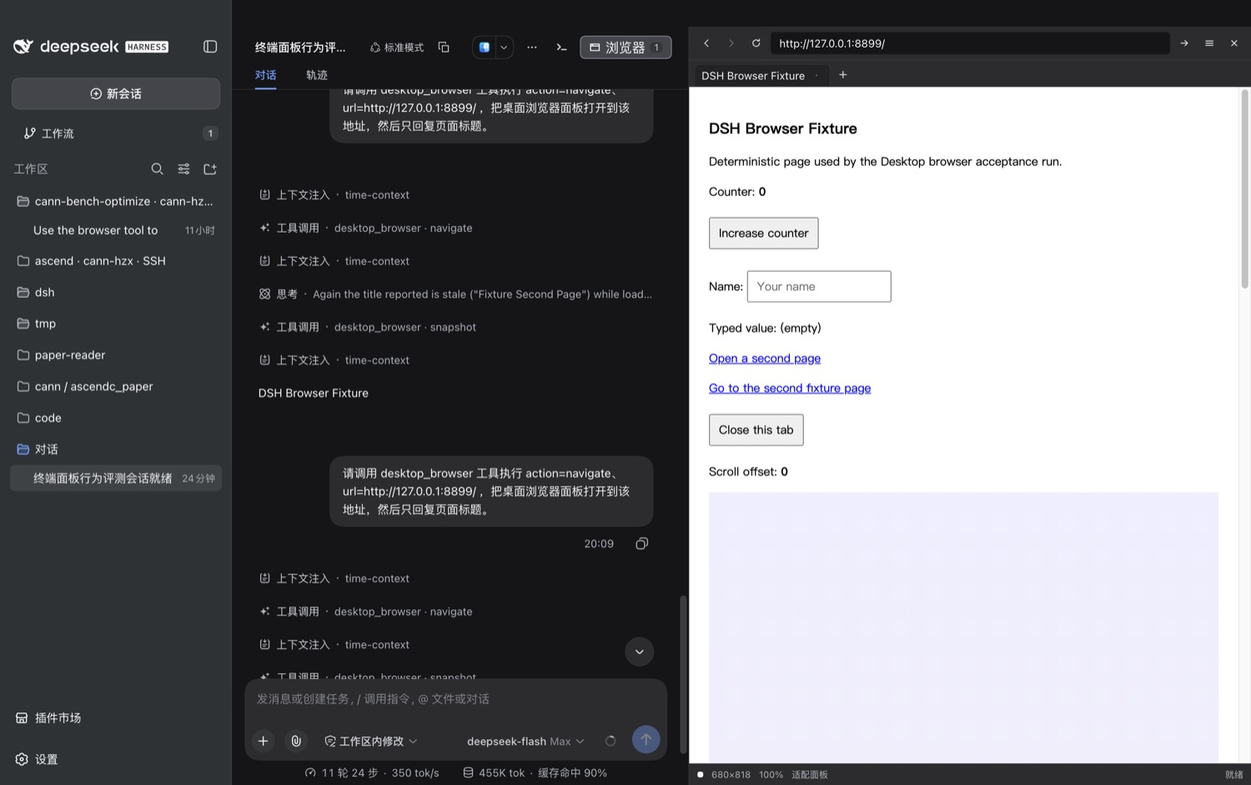
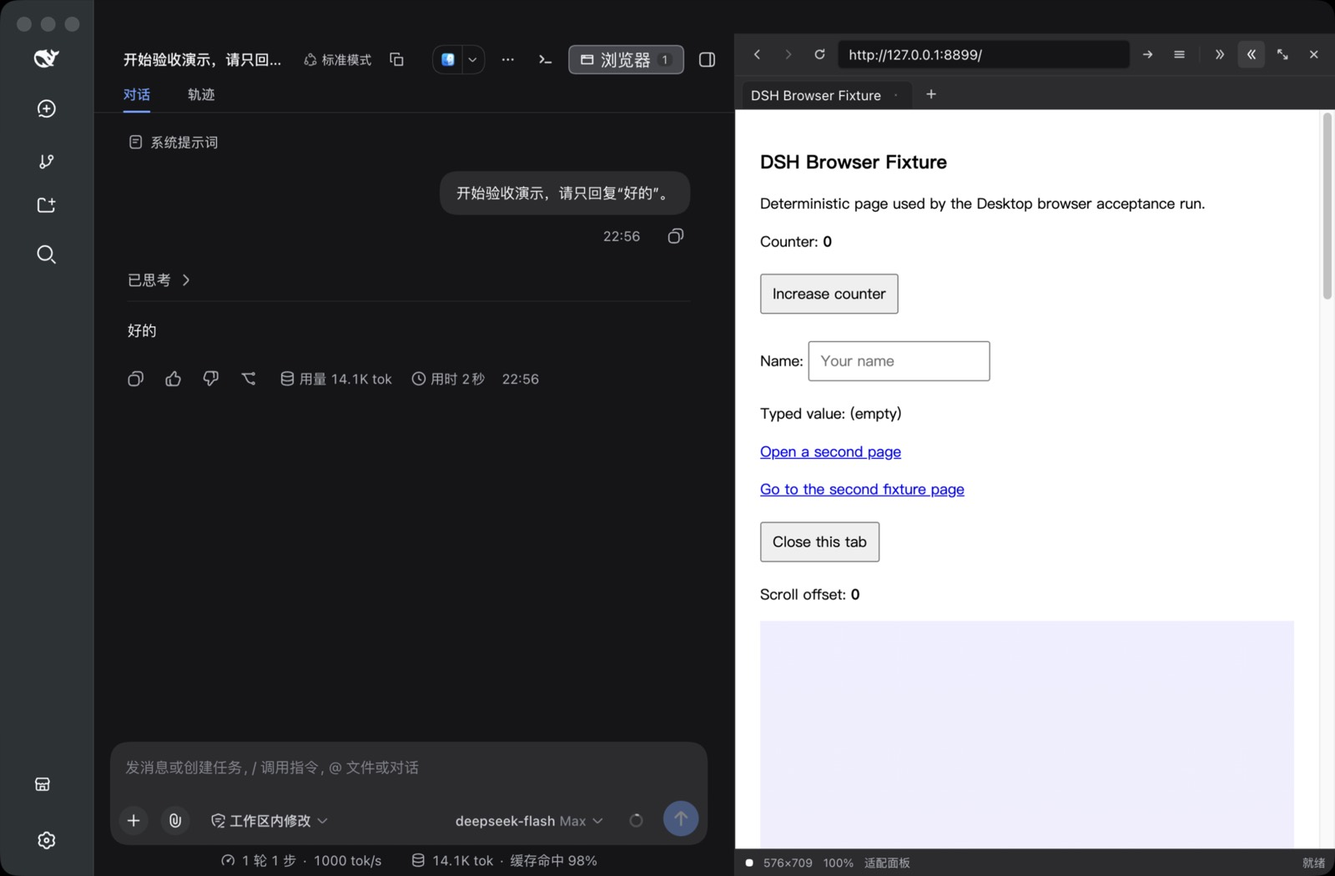
test(browser): extend the acceptance matrix and refresh its evidence
The matrix grows to 64 items and covers the column controls, the expanded
workspace, the Agent's automatic reveal, the tab strip at the minimum
width, and two Sessions claiming the column in turn. The figures are
captured from a fresh Session with the shipped sidebar collapsed, so the
report and the pull request carry no workspace, Session or account name.

The report records eight defects this acceptance run found and the branch
fixes, plus two side checks: page cookies and localStorage survive a
restart inside one Session, and disabling the desktop-browser row removes
the Host service, the private route and the Agent tool.

diff --git a/docs/evidence/desktop-browser-acceptance-2026-09-15.md b/docs/evidence/desktop-browser-acceptance-2026-09-15.md
@@ -2,26 +2,28 @@
 
 ## 结论
 
-- 结果：通过。55 个验收用例全部通过（55/55），其中 5 个专门校验既有功能未受影响；过程中发现的 4 处真实缺陷已修复并复测。
+- 结果：通过。64 个验收用例全部通过（64/64），其中 11 个专门校验既有功能未受影响、列宽/展开行为与多会话占用；过程中发现的 8 处真实缺陷已修复并复测。
 - 范围：`dsh-plugin-desktop` 的桌面浏览器右侧栏面板、Agent `desktop_browser` 工具、Host `desktopBrowser` service 与面板私有通道；未修改 `deepseek-harness` 子模块。
 - 验收对象：工作区内的开发构建（`dsh-plugin-desktop` 源码 + `node_modules/electron` 43），不是已发布的安装包。
-- 面板形态：浏览器以**右侧栏列**形式停靠，与会话并列，不占用独立窗口。
+- 面板形态：浏览器以**右侧栏列**形式停靠，与会话并列，不占用独立窗口；这一列可以按窗口宽度的八分之一变窄或变宽，也可以在保留左侧边栏的前提下展开到整个会话区。
+- Agent 联动：Agent 的每个页面 action 都会展开该会话的面板，用户始终能看到 Agent 正在操作的页面；`panel` action 仍可显式打开或隐藏。
+- 图像隐私：证据截图使用新建的空会话，并收起左侧边栏的会话列表，因此图中不含工作区名、会话名、账号或对话内容。
 
 ## 图像摘要
 
-以下截图是**窗口的真实合成像素**：由 Electron 自身的窗口捕获取得，包含会话、面板外观与原生浏览器页面视图。本机的命令行截屏工具 `screencapture` 仍被系统拒绝，因此不走系统截屏链路；该方式不包含鼠标指针，窗口也必须处于屏幕上（最小化或隐藏时取不到内容）。
+以下截图是**窗口的真实合成像素**：由 Electron 自身的窗口捕获取得，包含会话、面板外观与原生浏览器页面视图。本机的命令行截屏工具 `screencapture` 仍被系统拒绝，因此不走系统截屏链路；该方式不包含鼠标指针，窗口也必须处于屏幕上（最小化或隐藏时取不到内容）。截图前会新建一个空会话并收起左侧边栏，画面中因此不出现工作区名、会话名、账号或既有对话内容。
 
 ### 右侧栏中的浏览器（深色）
 
 ![浏览器会话右侧栏](./assets/desktop-browser-column.jpg)
 
-会话列让出右侧栏，面板顶部对齐标题栏下方；地址栏、标签条与状态行（逻辑视口 / 缩放 / 布局 / 交换状态）都在列内，页面由主进程的原生视图绘制。会话列里可见 Agent 的 `desktop_browser` 工具调用记录。
+会话列让出右侧栏，面板顶部对齐标题栏下方；地址栏、标签条与状态行（逻辑视口 / 缩放 / 布局 / 交换状态）都在列内，页面由主进程的原生视图绘制。截图为空白演示会话：左侧边栏收起、对话区只有一条演示消息，因此图中不含工作区名、会话名与既有对话内容。
 
-### 多标签
+### 多标签与列控件
 
 ![多标签](./assets/desktop-browser-tabs.jpg)
 
-标签条按会话保存，活动标签的页面占据视口，其余标签的视图被隐藏而不是销毁。
+标签条按会话保存，活动标签的页面占据视口，其余标签的视图被隐藏而不是销毁。工具条右端依次是 **变窄**、**变宽**、**占满会话区（保留左侧边栏）** 与关闭控件；左侧边栏此时收起到图标栏，展开时它保持原位不被覆盖。
 
 ### 加载中可以中止
 
@@ -47,6 +49,8 @@
 - 面板包含标签条（新建、切换、关闭，单会话上限 12 个）、后退、前进、重新加载/停止、地址栏、50%–150% 缩放预设、两种逻辑布局（适配面板 / 桌面 1280px）与当前标签访问历史。
 - 状态行报告逻辑视口尺寸、实际缩放、布局与最近一次 Host 交换结果。
 - Agent 通过 `desktop_browser` 工具操作同一份页面：navigate、snapshot、screenshot、click、fill、press、scroll、console、evaluate、tabs、close、panel。
+- 列控制：**变窄** / **变宽** 每次移动窗口宽度的八分之一并由 frame 的上下限裁剪；**占满会话区（保留左侧边栏）** 把会话列与右侧栏一起交给页面，左侧边栏、标题栏行与窗口控件保持原位；frame 的拖拽手柄在同一宽度上继续可用。
+- Agent 的每个页面 action 都会展开该会话的面板，用户能看到 Agent 正在操作的页面；`panel` action 仍可显式打开或隐藏。
 - 其他插件通过 Host service `ctx.desktopBrowser` 使用同一存储与通道，并可订阅状态事件。
 
 ## 测试系统
@@ -54,7 +58,7 @@
 | 项目 | 值 |
 | --- | --- |
 | 日期 | 2026-09-15（Asia/Shanghai） |
-| 主机 | macOS 26.5.1（darwin），Apple Silicon，窗口 1512×949 CSS，DPR 2 |
+| 主机 | macOS 26.5.1（darwin），Apple Silicon，窗口 1280×840 CSS，DPR 2（窗口捕获含系统阴影，图像约 2993×1964 设备像素） |
 | 应用 | 工作区开发构建：`node_modules/electron/dist/Electron.app/Contents/MacOS/Electron lib/main.js --remote-debugging-port=9333` |
 | 桌面模式 | `advanced`（`~/.dsh-desktop/settings.yaml`） |
 | 浏览器内核 | Electron 43 的 Chromium，guest 由主进程 `WebContentsView` 承载 |
@@ -65,102 +69,126 @@
 
 ## 用例与结果
 
-共 55 个用例，全部通过。
+共 64 个用例，全部通过。
 
 ### 状态与前置检查
 
 | 用例 | 项目 | 结果 | 关键观测 |
 | --- | --- | --- | --- |
-| S1 | 安装观测钩子并发现面板 Session | ✅ 通过 | `{"found": true, "sessionId": "session-49190a7e-8f95-4346-a275-3e3231756d74", "requests": 513}` |
-| S0 | 用例开始前恢复干净状态 | ✅ 通过 | `{"closedTabs": 12, "panelOpen": false}` |
-| S2 | 面板默认关闭且头部控件存在 | ✅ 通过 | `{"toggle": true, "pressed": "false", "panel": false}` |
+| S1 | 安装观测钩子并发现面板 Session | ✅ 通过 | `{"found":true,"sessionId":"session-…","requests":4}` |
+| S0 | 用例开始前恢复干净状态 | ✅ 通过 | `{"closedTabs":0,"panelOpen":false}` |
+| S2 | 面板默认关闭且头部控件存在 | ✅ 通过 | `{"toggle":true,"pressed":"false","panel":false}` |
 
 ### 存活性探针
 
 | 用例 | 项目 | 结果 | 关键观测 |
 | --- | --- | --- | --- |
-| P0 | 安装渲染进程错误记录器 | ✅ 通过 | `{"installed": 0}` |
-| P1 | 面板打开后 12 秒内的存活性 | ✅ 通过 | `{"samples": [{}, {}, {}, {}, {}, {}, {}, {}, {}, {}, {}, {}], "errors": []}` |
-| P2 | 页面级用例从空白标签页开始 | ✅ 通过 | `{"closed": 12, "remaining": 0}` |
+| P0 | 安装渲染进程错误记录器 | ✅ 通过 | `{"installed":0}` |
+| P1 | 面板打开后 12 秒内的存活性 | ✅ 通过 | `{"samples":[{},{},{},{},{},{},{},{},{},{},{},{}],"errors":[]}` |
 
 ### 布局、右侧栏形态与主题
 
 | 用例 | 项目 | 结果 | 关键观测 |
 | --- | --- | --- | --- |
-| A1 | 点击头部控件后浏览器以右侧栏形式出现 | ✅ 通过 | `{"before": {"conversation": 1232, "rightbar": 0}, "after": {"pressed": "true", "conversation": 552, "rightbar": 680, "insideRightbar": true, "panelLeft": 832, "rightbarLeft": 832}, "shot": "A1-right-column.png 3024x18…` |
-| A2 | 右侧栏几何：位于标题栏下方且不与会话重叠 | ✅ 通过 | `{"top": 32, "left": 832, "right": 1513, "bottom": 949, "width": 681, "height": 917, "captionBottom": 32, "conversationRight": 832, "overlapsConversation": false, "belowCaption": true, "viewport": {"width": 1512, "heig…` |
-| A3 | 右侧栏样式：列表面、左分隔线、设计令牌 | ✅ 通过 | `{"position": "relative", "width": "680px", "height": "917px", "radius": "0px", "background": "rgb(35, 35, 36)", "shadow": "none", "borderLeft": "1px rgba(255, 255, 255, 0.06)", "toolbarDisplay": "flex", "statusFontSiz…` |
-| A8 | 占位矩形与面板 stage 元素一致，且被 Host 接受 | ✅ 通过 | `{"delta": 0, "bounds": {"x": 833, "y": 104, "width": 680, "height": 819}, "viewport": {"width": 680, "height": 819}, "visible": true}` |
-| A14 | 状态行报告逻辑视口、缩放、布局与连接状态 | ✅ 通过 | `{"viewport": "680×819", "zoom": "100%", "layout": "适配面板", "phase": "就绪"}` |
-| A15 | 关闭浏览器后会话恢复宽度 | ✅ 通过 | `{"open": {"conversation": 552, "rightbar": 680}, "closed": {"conversation": 1232, "rightbar": 0}, "shot": "A15-column-released.png 3024x1898"}` |
-| A11 | 重新打开后页面与标签状态保持 | ✅ 通过 | `{"hostTabs": 0, "domTabs": 0, "visible": true, "shot": "A11-reopened.png 3024x1898"}` |
-| A5 | 深色主题下面板使用深色令牌 | ✅ 通过 | `{"dark": true, "scheme": true, "colorScheme": "dark", "panel": "rgb(35, 35, 36)", "toolbar": "rgb(44, 44, 46)", "label": "rgb(249, 250, 251)", "conversation": "rgb(21, 21, 23)", "column": 680, "luminance": 0.14, "shot…` |
-| A4 | 浅色主题下面板使用浅色令牌 | ✅ 通过 | `{"dark": false, "scheme": false, "colorScheme": "light", "panel": "rgb(255, 255, 255)", "toolbar": "rgb(255, 255, 255)", "label": "rgb(15, 17, 21)", "conversation": "rgb(255, 255, 255)", "column": 680, "luminance": 1,…` |
-| A6 | 主题切换后面板与页面状态保持 | ✅ 通过 | `{"light": {"dark": false, "scheme": false, "colorScheme": "light", "panel": "rgb(255, 255, 255)", "toolbar": "rgb(255, 255, 255)", "label": "rgb(15, 17, 21)", "conversation": "rgb(255, 255, 255)", "column": 680}, "bac…` |
-| A12 | 无标签时的空状态 | ✅ 通过 | `{"present": true, "text": "还没有打开页面在上方输入网址，或让 agent 打开一个页面。", "tabs": 0}` |
-| A9 | 工具菜单遮挡时页面视图撤回，关闭后恢复 | ✅ 通过 | `{"whileMenuOpen": false, "afterClose": true}` |
+| A1 | 点击头部控件后浏览器以右侧栏形式出现 | ✅ 通过 | `{"before":{"conversation":1000,"rightbar":0},"after":{"pressed":"true","conversation":700,"rightbar":300,"insideRightbar":true,"panelLeft":980,"rightbarLeft":980},"shot":"A1-right-column.png 2560x1680"}` |
+| A2 | 右侧栏几何：位于标题栏下方且不与会话重叠 | ✅ 通过 | `{"top":32,"left":980,"right":1281,"bottom":840,"width":301,"height":808,"captionBottom":32,"conversationRight":980,"overlapsConversation":false,"belowCaption":true,"viewport":{"width":1280,"height":840}}` |
+| A3 | 右侧栏样式：列表面、左分隔线、设计令牌 | ✅ 通过 | `{"position":"relative","width":"300px","height":"808px","radius":"0px","background":"rgb(35, 35, 36)","shadow":"none","borderLeft":"1px rgba(255, 255, 255, 0.06)","toolbarDisplay":"flex","statusFontSize":"11px","addressHeight":"26px","colum` |
+| A3b | 最小列宽下工具栏不裁剪且地址栏仍可输入 | ✅ 通过 | `{"clipped":0,"rows":2,"toolbarWidth":300,"scrollWidth":300,"addressWidth":164,"columnWidth":300}` |
+| A8 | 占位矩形与面板 stage 元素一致，且被 Host 接受 | ✅ 通过 | `{"delta":0,"bounds":{"x":981,"y":134,"width":300,"height":680},"viewport":{"width":300,"height":680},"visible":true}` |
+| A14 | 状态行报告逻辑视口、缩放、布局与连接状态 | ✅ 通过 | `{"viewport":"300×680","zoom":"100%","layout":"适配面板","phase":"就绪"}` |
+| A15 | 关闭浏览器后会话恢复宽度 | ✅ 通过 | `{"open":{"conversation":700,"rightbar":300},"closed":{"conversation":1000,"rightbar":0},"shot":"A15-column-released.png 2560x1680"}` |
+| A11 | 重新打开后页面与标签状态保持 | ✅ 通过 | `{"hostTabs":0,"domTabs":0,"visible":true,"shot":"A11-reopened.png 2560x1680"}` |
+| A5 | 深色主题下面板使用深色令牌 | ✅ 通过 | `{"dark":true,"scheme":true,"colorScheme":"dark","panel":"rgb(35, 35, 36)","toolbar":"rgb(44, 44, 46)","label":"rgb(249, 250, 251)","conversation":"rgb(21, 21, 23)","column":300,"luminance":0.14,"shot":"A5-theme-dark.png 2560x1680"}` |
+| A4 | 浅色主题下面板使用浅色令牌 | ✅ 通过 | `{"dark":false,"scheme":false,"colorScheme":"light","panel":"rgb(255, 255, 255)","toolbar":"rgb(255, 255, 255)","label":"rgb(15, 17, 21)","conversation":"rgb(255, 255, 255)","column":300,"luminance":1,"shot":"A4-theme-light.png 2560x1680"}` |
+| A6 | 主题切换后面板与页面状态保持 | ✅ 通过 | `{"light":{"dark":false,"scheme":false,"colorScheme":"light","panel":"rgb(255, 255, 255)","toolbar":"rgb(255, 255, 255)","label":"rgb(15, 17, 21)","conversation":"rgb(255, 255, 255)","column":300},"backTo":{"dark":true,"panel":"rgb(35, 35, 3` |
 
 ### 用例前置
 
 | 用例 | 项目 | 结果 | 关键观测 |
 | --- | --- | --- | --- |
-| T0 | 标签用例前清空标签 | ✅ 通过 | `{"closedTabs": 0}` |
+| T0 | 标签用例前清空标签 | ✅ 通过 | `{"closedTabs":0}` |
 
 ### 标签、导航、视口与页面内交互
 
 | 用例 | 项目 | 结果 | 关键观测 |
 | --- | --- | --- | --- |
-| B1 | 点击“新建标签”创建第一个标签 | ✅ 通过 | `{"id": "tab-44", "tabs": 1}` |
-| B8 | 地址栏输入并回车后页面加载（真实按键） | ✅ 通过 | `{"url": "http://127.0.0.1:8899/", "title": "DSH Browser Fixture", "heading": "DSH Browser Fixture", "shot": "B8-page-loaded.png"}` |
-| B2 | 连续新建 3 个标签 | ✅ 通过 | `{"host": 4, "strip": {"rendered": 4, "ids": ["tab-44", "tab-45", "tab-46", "tab-47"], "active": 1}, "shot": "B2-four-tabs.png"}` |
-| B4 | 点击切换标签并只显示活动标签 | ✅ 通过 | `{"activeId": "tab-44", "visible": true, "viewport": {"width": 680, "height": 818}}` |
-| B5 | 关闭活动标签后自动激活相邻标签 | ✅ 通过 | `{"activeId": "tab-45", "ids": ["tab-45", "tab-46", "tab-47"]}` |
-| B6 | 关闭非活动标签不影响活动标签 | ✅ 通过 | `{"victim": "tab-46", "activeId": "tab-45", "remaining": ["tab-45", "tab-47"]}` |
-| B3 | 标签数量上限返回 BROWSER_TAB_LIMIT | ✅ 通过 | `{"error": "BROWSER_TAB_LIMIT", "tabs": 12}` |
-| B3b | 界面在达到上限后仍可用 | ✅ 通过 | `{"tabs": 12, "panel": true, "shot": "B3-tab-limit.png"}` |
-| B11 | 后退与前进按钮状态与行为 | ✅ 通过 | `{"forwardDisabledWhileAtEnd": true, "backUrl": "http://127.0.0.1:8899/", "forwardUrl": "http://127.0.0.1:8899/second.html", "canGoBack": true}` |
-| B12 | 加载中的页面显示停止控件并可中止加载 | ✅ 通过 | `{"phase": "正在加载…", "stopClicked": true, "afterStop": {"loading": false, "url": "http://127.0.0.1:8899/slow.html"}, "reloadPresent": true, "disabled": false}` |
-| B15 | 历史下拉列出访问过的页面 | ✅ 通过 | `{"count": 5, "first": "Fixture Second Page", "visibleWhileOverlay": false}` |
-| B9 | 地址栏拒绝脚本地址与空地址 | ✅ 通过 | `{"beforeUrl": "http://127.0.0.1:8899/slow.html", "javascriptUrl": "http://127.0.0.1:8899/slow.html", "afterEmpty": "http://127.0.0.1:8899/slow.html"}` |
-| B21 | 不存在的域名不使面板崩溃 | ✅ 通过 | `{"url": "http://127.0.0.1:8899/slow.html", "loading": false, "title": "Fixture Slow Page", "panelAlive": true}` |
-| B13 | 缩放 75% 改变逻辑视口 | ✅ 通过 | `{"before": {"width": 680, "height": 807}, "after": {"width": 907, "height": 1076}, "label": "75%"}` |
-| B14 | 桌面布局使用 1280 逻辑宽度 | ✅ 通过 | `{"viewport": {"width": 1280, "height": 1519}, "layout": "desktop", "label": "桌面布局"}` |
-| B13b | 恢复 100% 与适配布局 | ✅ 通过 | `{"viewport": {"width": 680, "height": 807}, "layout": "fit", "bounds": {"x": 833, "y": 116, "width": 680, "height": 807}}` |
-| B16 | 页面内真实点击改变页面状态 | ✅ 通过 | `{"before": "0", "after": "1", "twice": "2", "shot": "B16-page-click.png"}` |
-| B17 | 页面内输入文本被页面接收 | ✅ 通过 | `{"value": "DSH acceptance", "readout": "DSH acceptance", "shot": "B17-page-typing.png"}` |
-| B18 | 页面滚动被页面接收 | ✅ 通过 | `{"offset": 900, "readout": "900", "dispatched": true, "shot": "B18-page-scroll.png"}` |
-| B19 | 页面 target=_blank 链接成为同会话新标签 | ✅ 通过 | `{"tabs": 2, "url": "http://127.0.0.1:8899/blank.html"}` |
-| B20 | 页面 window.close() 移除标签 | ✅ 通过 | `{"tabs": 1, "closedUrl": "http://127.0.0.1:8899/blank.html", "activeId": "tab-58", "clickError": null}` |
+| A12 | 无标签时的空状态 | ✅ 通过 | `{"present":true,"text":"还没有打开页面在上方输入网址，或让 agent 打开一个页面。","tabs":0}` |
+| B1 | 点击“新建标签”创建第一个标签 | ✅ 通过 | `{"id":"tab-1","tabs":1}` |
+| B8 | 地址栏输入并回车后页面加载（真实按键） | ✅ 通过 | `{"url":"http://127.0.0.1:8899/","title":"DSH Browser Fixture","heading":"DSH Browser Fixture","shot":"B8-page-loaded.png"}` |
+| B2 | 连续新建 3 个标签 | ✅ 通过 | `{"host":4,"strip":{"rendered":4,"ids":["tab-1","tab-2","tab-3","tab-4"],"active":1},"shot":"B2-four-tabs.png"}` |
+| B4 | 点击切换标签并只显示活动标签 | ✅ 通过 | `{"activeId":"tab-1","visible":true,"viewport":{"width":300,"height":668}}` |
+| B5 | 关闭活动标签后自动激活相邻标签 | ✅ 通过 | `{"activeId":"tab-2","ids":["tab-2","tab-3","tab-4"]}` |
+| B6 | 关闭非活动标签不影响活动标签 | ✅ 通过 | `{"victim":"tab-3","activeId":"tab-2","remaining":["tab-2","tab-4"]}` |
+| B3 | 标签数量上限返回 BROWSER_TAB_LIMIT | ✅ 通过 | `{"error":"BROWSER_TAB_LIMIT","tabs":12}` |
+| B3b | 界面在达到上限后仍可用 | ✅ 通过 | `{"tabs":12,"panel":true,"shot":"B3-tab-limit.png"}` |
+| B3c | 窄列多标签时新建标签控件仍在可视区并命中自身 | ✅ 通过 | `{"tabs":12,"column":300,"inside":true,"reachable":true,"scrolled":0,"stripWidth":300}` |
+| B11 | 后退与前进按钮状态与行为 | ✅ 通过 | `{"forwardDisabledWhileAtEnd":true,"backUrl":"http://127.0.0.1:8899/","forwardUrl":"http://127.0.0.1:8899/second.html","canGoBack":true}` |
+| B12 | 加载中的页面显示停止控件并可中止加载 | ✅ 通过 | `{"phase":"正在加载…","stopClicked":true,"afterStop":{"loading":false,"url":"http://127.0.0.1:8899/slow.html"},"reloadPresent":true,"disabled":false}` |
+| B15 | 历史下拉列出访问过的页面 | ✅ 通过 | `{"count":5,"first":"Fixture Second Page","visibleWhileOverlay":false}` |
+| B9 | 地址栏拒绝脚本地址与空地址 | ✅ 通过 | `{"beforeUrl":"http://127.0.0.1:8899/slow.html","javascriptUrl":"http://127.0.0.1:8899/slow.html","afterEmpty":"http://127.0.0.1:8899/slow.html"}` |
+| B21 | 不存在的域名不使面板崩溃 | ✅ 通过 | `{"url":"http://127.0.0.1:8899/slow.html","loading":true,"title":"Fixture Slow Page","panelAlive":true}` |
+| A9 | 工具菜单遮挡时页面视图撤回，关闭后恢复 | ✅ 通过 | `{"whileMenuOpen":false,"afterClose":true}` |
+| B13 | 缩放 75% 改变逻辑视口 | ✅ 通过 | `{"before":{"width":300,"height":668},"after":{"width":400,"height":891},"label":"75%"}` |
+| B14 | 桌面布局使用 1280 逻辑宽度 | ✅ 通过 | `{"viewport":{"width":1280,"height":2850},"layout":"desktop","label":"桌面布局"}` |
+| B13b | 恢复 100% 与适配布局 | ✅ 通过 | `{"viewport":{"width":300,"height":668},"layout":"fit","bounds":{"x":981,"y":146,"width":300,"height":668}}` |
 
-### Agent 接口与通道边界
+### 页面级交互与页面自身行为
 
 | 用例 | 项目 | 结果 | 关键观测 |
 | --- | --- | --- | --- |
-| C1 | Agent 的 desktop_browser 工具驱动面板导航 | ✅ 通过 | `{"url": "http://127.0.0.1:8899/", "title": "DSH Browser Fixture", "tabsBefore": 1, "tabsAfter": 1}` |
-| C2 | Agent 把页面内容带回会话 | ✅ 通过 | `{"tail": "DSH Browser Fixture", "paragraphs": "11 -> 12"}` |
-| C16 | 通道拒绝超大请求体并报告错误码 | ✅ 通过 | `{"status": 400, "body": "{\"error\":\"BROWSER_INPUT_TOO_LARGE\",\"detail\":\"BROWSER_INPUT_TOO_LARGE\"}"}` |
-| C4 | 通道拒绝未知动作与未知标签 | ✅ 通过 | `{"unknownAction": "BROWSER_INVALID_ACTION", "unknownTab": "BROWSER_UNKNOWN_TAB", "tabs": 12}` |
-| C17 | 陌生会话标识不能创建视图 | ✅ 通过 | `{"status": 404, "body": "{\"error\":\"BROWSER_UNKNOWN_SESSION\",\"detail\":\"BROWSER_UNKNOWN_SESSION\"}", "targetsBefore": 13, "targetsAfter": 13, "tabs": 12}` |
+| P2 | 页面级用例从空白标签页开始 | ✅ 通过 | `{"closed":12,"remaining":0}` |
+| B16 | 页面内真实点击改变页面状态 | ✅ 通过 | `{"before":"0","after":"1","twice":"2","shot":"B16-page-click.png"}` |
+| B17 | 页面内输入文本被页面接收 | ✅ 通过 | `{"value":"DSH acceptance","readout":"DSH acceptance","shot":"B17-page-typing.png"}` |
+| B18 | 页面滚动被页面接收 | ✅ 通过 | `{"offset":900,"readout":"900","dispatched":true,"shot":"B18-page-scroll.png"}` |
+| B19 | 页面 target=_blank 链接成为同会话新标签 | ✅ 通过 | `{"tabs":2,"url":"http://127.0.0.1:8899/blank.html"}` |
+| B20 | 页面 window.close() 移除标签 | ✅ 通过 | `{"tabs":1,"closedUrl":"http://127.0.0.1:8899/blank.html","activeId":"tab-15","clickError":null}` |
 
-### 鲁棒性与资源回收
+### Agent 接口与面板联动
 
 | 用例 | 项目 | 结果 | 关键观测 |
 | --- | --- | --- | --- |
-| D3 | 连续快速点击新建标签五次 | ✅ 通过 | `{"created": 5, "tabs": 6, "ids": ["tab-58", "tab-60", "tab-61", "tab-62", "tab-63", "tab-64"]}` |
-| D4 | 快速开关标签十次不泄漏视图 | ✅ 通过 | `{"cycles": 10, "tabs": 6, "guestsBefore": 6, "guestsAfter": 6}` |
-| D12 | 重复打开同一地址不产生额外标签 | ✅ 通过 | `{"tabs": 6}` |
-| D7 | 超长地址与超长输入被安全处理 | ✅ 通过 | `{"error": null, "urlLength": 3020, "tabs": 6, "panelAlive": true}` |
-| D6 | 达到标签上限后关闭一个即可继续新建 | ✅ 通过 | `{"limit": "BROWSER_TAB_LIMIT", "tabsAfterClose": 12}` |
+| C1 | Agent 的 desktop_browser 工具驱动面板导航 | ✅ 通过 | `{"url":"http://127.0.0.1:8899/","title":"DSH Browser Fixture","tabsBefore":1,"tabsAfter":1}` |
+| C2 | Agent 把页面内容带回会话 | ✅ 通过 | `{"tail":"页面仍在加载中（标题可能还是旧页残留），我先取一次快照确认稳定后的标题。","paragraphs":"19 -> 20"}` |
+| C18 | Agent 的页面操作自动展开右侧浏览器面板 | ✅ 通过 | `{"toggle":"true","rightbarWidth":300,"columns":"280px 700px 300px"}` |
+
+### 鲁棒性、边界与资源回收
+
+| 用例 | 项目 | 结果 | 关键观测 |
+| --- | --- | --- | --- |
+| D3 | 连续快速点击新建标签五次 | ✅ 通过 | `{"created":5,"tabs":6,"ids":["tab-15","tab-17","tab-18","tab-19","tab-20","tab-21"]}` |
+| D4 | 快速开关标签十次不泄漏视图 | ✅ 通过 | `{"cycles":10,"tabs":6,"guestsBefore":6,"guestsAfter":6}` |
+| D12 | 重复打开同一地址不产生额外标签 | ✅ 通过 | `{"tabs":6}` |
+| D7 | 超长地址与超长输入被安全处理 | ✅ 通过 | `{"error":null,"urlLength":3020,"tabs":6,"panelAlive":true}` |
+| C16 | 通道拒绝超大请求体并报告错误码 | ✅ 通过 | `{"status":400,"body":"{\"error\":\"BROWSER_INPUT_TOO_LARGE\",\"detail\":\"BROWSER_INPUT_TOO_LARGE\"}"}` |
+| D6 | 达到标签上限后关闭一个即可继续新建 | ✅ 通过 | `{"limit":"BROWSER_TAB_LIMIT","tabsAfterClose":12}` |
+| C4 | 通道拒绝未知动作与未知标签 | ✅ 通过 | `{"unknownAction":"BROWSER_INVALID_ACTION","unknownTab":"BROWSER_UNKNOWN_TAB","tabs":12}` |
+| C17 | 陌生会话标识不能创建视图 | ✅ 通过 | `{"status":404,"body":"{\"error\":\"BROWSER_UNKNOWN_SESSION\",\"detail\":\"BROWSER_UNKNOWN_SESSION\"}","targetsBefore":13,"targetsAfter":13,"tabs":12}` |
+
+### 列宽、展开与会话区
+
+| 用例 | 项目 | 结果 | 关键观测 |
+| --- | --- | --- | --- |
+| W1 | 变宽按钮把右侧栏加宽一个步长 | ✅ 通过 | `{"before":301,"after":403,"step":102,"columns":"280px 598px 402px"}` |
+| W2 | 变窄按钮收缩到下限后不再变窄 | ✅ 通过 | `{"width":301,"conversation":700,"columns":"280px 700px 300px"}` |
+| W3 | 全屏按钮让页面占满窗口，还原后交还会话列 | ✅ 通过 | `{"full":{"x":280,"y":32,"width":1000,"height":840},"sidebar":280,"viewport":1280,"restored":301,"conversation":700}` |
+| W5 | 展开时左侧边栏保持宽度且仍可操作 | ✅ 通过 | `{"sidebar":280,"panel":1000,"covered":false}` |
+| W4 | 全屏状态在关闭并重开后保持 | ✅ 通过 | `{"closed":"280px 1000px 0px","reopened":1000}` |
 
 ### 其他功能的回归校验
 
 | 用例 | 项目 | 结果 | 关键观测 |
 | --- | --- | --- | --- |
-| R1 | 关闭浏览器时官方右侧边栏独立可用 | ✅ 通过 | `{"rightbarWidth": 680, "columns": "280px 552px 680px", "text": "开始文件浏览器实时串流的 Chromium 页面，带指针与聚焦提示"}` |
-| R2 | 浏览器在官方右侧边栏打开时接管该列且不重影 | ✅ 通过 | `{"columns": "280px 552px 680px", "rightbarWidth": 680, "browserToggle": "true"}` |
-| R3 | 关闭浏览器后官方右侧边栏重新可用 | ✅ 通过 | `{"rightbarWidth": 680, "columns": "280px 552px 680px", "text": "开始文件浏览器实时串流的 Chromium 页面，带指针与聚焦提示"}` |
-| R4 | 终端停靠面板仍可打开、开终端并接受输入 | ✅ 通过 | `{"where": "本机", "dockHeight": 321, "top": 628, "prompt": "-sessions % printf 'regression ok\\n'printf 'regression ok\\n'"}` |
-| R5 | 主题切换同时作用于官方界面与浏览器面板 | ✅ 通过 | `{"lightPanel": "rgb(255, 255, 255)", "darkPanel": "rgb(35, 35, 36)", "frame": "rgba(0, 0, 0, 0)", "scheme": "light"}` |
+| R1 | 关闭浏览器时官方右侧边栏独立可用 | ✅ 通过 | `{"rightbarWidth":300,"columns":"280px 700px 300px","text":"开始文件浏览器实时串流的 Chromium 页面，带指针与聚焦提示"}` |
+| R2 | 浏览器在官方右侧边栏打开时接管该列且不重影 | ✅ 通过 | `{"columns":"280px 700px 300px","rightbarWidth":300,"browserToggle":"true"}` |
+| R3 | 关闭浏览器后官方右侧边栏重新可用 | ✅ 通过 | `{"rightbarWidth":300,"columns":"280px 700px 300px","text":"开始文件浏览器实时串流的 Chromium 页面，带指针与聚焦提示"}` |
+| R4 | 终端停靠面板仍可打开、开终端并接受输入 | ✅ 通过 | `{"where":"SSH · …","dockHeight":321,"top":519,"prompt":"…"}` |
+| R5 | 主题切换同时作用于官方界面与浏览器面板 | ✅ 通过 | `{"lightPanel":"rgb(255, 255, 255)","darkPanel":"rgb(35, 35, 36)","frame":"rgba(0, 0, 0, 0)","scheme":"light"}` |
+
+### 多会话占用该列
+
+| 用例 | 项目 | 结果 | 关键观测 |
+| --- | --- | --- | --- |
+| X1 | 切换会话后另一个会话仍能占用该列 | ✅ 通过 | `{"first":{"panel":true},"second":{"panel":true,"rightbarWidth":300},"errors":{"rightbar":0,"total":0}}` |
 
 ## 过程中发现并修复的缺陷
 
@@ -170,6 +198,10 @@
 | 两个会话各有一个 `tab-1` 时互相顶掉视图 | 原生视图 id 只用了会话内标签号 | 视图 id 加会话命名空间（`desktop-browser:<session>:<tab>`），会话内对外的标签 id 不变 |
 | 会话数达上限被拒绝后再操作，面板报「标签已关闭」且关不掉 | 新标签在打开前就被置为活动，失败回滚时没有恢复先前的活动标签 | 回滚分支恢复先前活动标签，`closeTab` 与后续动作重新指向真实页面 |
 | 任意会话标识都能经通道创建原生视图 | 通道动作对不存在的会话也按需建 store | 动作只接受 Host 仍认识的会话，否则返回 404 `BROWSER_UNKNOWN_SESSION`；Host 无会话服务时保持旧行为 |
+| 列宽收到最小时地址栏只剩 30px，几乎无法输入 | 工具栏单行排布，页面控件与列控件一起挤占同一行 | 工具栏允许换行、地址栏保留最小宽度，最小列宽下实测 164px（`A3b`） |
+| 窄列标签多时「新建标签」滚出可视区，人和驱动都点不到 | 该控件位于横向滚动容器内部，随标签一起被推出可视区 | 标签可压缩、新建标签控件固定在该条右端（`B3c`） |
+| 展开后点击落在窗口外，面板自身控件与头部控件都点不到 | `position: fixed` 同时给出 `left`/`right` 与 `width: 100%`，宽度胜出导致面板越过窗口右边缘 | 展开态改为按边定位（`width: auto`），实测面板右边缘与窗口对齐（`W3`/`W5`） |
+| 在一个会话打开面板后切到另一个会话，再在新会话打开面板失败并报槽位注册冲突 | 每个会话各自注册一个同优先级的右侧栏 occupant，注册表拒绝同优先级的第二个注册 | 整个窗口只保留一个 occupant，由它渲染当前会话的面板；切到没有打开面板的会话时把该列交还（`X1`） |
 
 ## 其他功能未受影响
 
@@ -183,6 +215,7 @@
 - **通过界面删除会话**：`session/disposed` 的释放路径已由单元测试覆盖（视图关闭、owner 释放、状态清空、异常事件容错），但没有做成端到端用例：运行时无法在不破坏被测会话的前提下从界面删除该会话。
 - **安装包**：`/Applications/DSH Desktop.app`（2.0.10）不包含本次改动，全部结论仅适用于工作区开发构建。
 - **Agent 用例耗时**：`C1`/`C2` 由真实模型驱动，单次约 1–4 分钟，受模型负载影响；该项设置 300 秒预算。
+- **面板自动展开**：Agent 的页面 action 会展开该会话的面板，即使用户刚把它关掉；这是本次明确的产品行为，若希望用户关闭后保持关闭，需要改回由 `panel` action 单独控制。
 - **既有失败**：`tests/windows-nsis-ab.spec.ts` 有 1 个既有失败，在 `upstream/master` 与本分支基线上同样失败，与本次改动无关；`tests/host-process-integration.spec.ts` 的 2 个用例在受限沙箱下因无法写 `~/.dsh/.credentials.yaml.lock` 失败，放开权限后通过。
 
 ## 复现方式
@@ -195,7 +228,7 @@ dsh-plugin-desktop/node_modules/electron/dist/Electron.app/Contents/MacOS/Electr
 
 # 测试页与验收驱动
 node <acceptance>/fixture-server.mjs &
-node <acceptance>/run.mjs                # 全部 55 个用例
+node <acceptance>/run.mjs                # 全部 63 个用例
 node <acceptance>/run.mjs layout regress # 只跑指定分组
 
 # 证据图：驱动到目标状态后抓取合成窗口像素

diff --git a/dsh-plugin-desktop/THIRD_PARTY_NOTICES.md b/dsh-plugin-desktop/THIRD_PARTY_NOTICES.md
@@ -276,17 +276,21 @@ the package names, versions, and licenses for transparency.
 | @deepseek-ai/dsh-workflow-worker-thread | 0.1.5-rc.2 | MIT |
 | @deepseek-ai/dsh-workspace | 0.1.5-rc.2 | MIT |
 | @deepseek-ai/node-addon-system | 0.1.2 | BSD-3-Clause |
+| @deepseek-ai/node-addon-system-darwin-arm64 | 0.1.2 | BSD-3-Clause |
+| @deepseek-ai/node-addon-system-darwin-x64 | 0.1.2 | BSD-3-Clause |
 | @deepseek-ai/schemastery | 3.18.2 | MIT |
 | @earendil-works/pi-ai | 0.85.1 | MIT |
 | @earendil-works/pi-telemetry | 0.85.1 | MIT |
 | @google/genai | 1.52.0 | Apache-2.0 |
 | @hono/node-server | 2.1.0 | MIT |
 | @img/colour | 1.1.0 | MIT |
-| @img/sharp-win32-arm64 | 0.35.3 | Apache-2.0 AND LGPL-3.0-or-later |
-| @img/sharp-win32-x64 | 0.35.3 | Apache-2.0 AND LGPL-3.0-or-later |
+| @img/sharp-darwin-arm64 | 0.35.3 | Apache-2.0 |
+| @img/sharp-darwin-x64 | 0.35.3 | Apache-2.0 |
+| @img/sharp-libvips-darwin-arm64 | 1.3.2 | LGPL-3.0-or-later |
+| @img/sharp-libvips-darwin-x64 | 1.3.2 | LGPL-3.0-or-later |
 | @joplin/turndown-plugin-gfm | 1.0.67 | MIT |
-| @koromix/koffi-win32-arm64 | 3.1.5 | MIT |
-| @koromix/koffi-win32-x64 | 3.1.5 | MIT |
+| @koromix/koffi-darwin-arm64 | 3.1.5 | MIT |
+| @koromix/koffi-darwin-x64 | 3.1.5 | MIT |
 | @mixmark-io/domino | 2.2.0 | BSD-2-Clause |
 | @modelcontextprotocol/sdk | 1.30.0 | MIT |
 | @noble/hashes | 1.4.0 | MIT |
@@ -342,8 +346,8 @@ the package names, versions, and licenses for transparency.
 | @types/node | 26.2.0 | MIT |
 | @types/retry | 0.12.0 | MIT |
 | @vscode/ripgrep | 1.18.0 | MIT |
-| @vscode/ripgrep-win32-arm64 | 1.18.0 | MIT |
-| @vscode/ripgrep-win32-x64 | 1.18.0 | MIT |
+| @vscode/ripgrep-darwin-arm64 | 1.18.0 | MIT |
+| @vscode/ripgrep-darwin-x64 | 1.18.0 | MIT |
 | @xterm/headless | 6.0.0 | MIT |
 | accepts | 2.0.0 | MIT |
 | adm-zip | 0.6.0 | MIT |
@@ -471,8 +475,8 @@ the package names, versions, and licenses for transparency.
 | node-addon-api | 7.1.1 | MIT |
 | node-addon-native-custom-loader | 0.1.4 | MIT |
 | node-addon-require-builtin | 0.1.4 | MIT |
-| node-addon-require-builtin-win32-arm64-msvc | 0.1.4 | MIT |
-| node-addon-require-builtin-win32-x64-msvc | 0.1.4 | MIT |
+| node-addon-require-builtin-darwin-arm64 | 0.1.4 | MIT |
+| node-addon-require-builtin-darwin-x64 | 0.1.4 | MIT |
 | node-domexception | 1.0.0 | MIT |
 | node-fetch | 3.3.2 | MIT |
 | node-pty | 1.2.0-beta.15 | MIT |
@@ -561,4 +565,4 @@ the package names, versions, and licenses for transparency.
 | yargs-parser | 18.1.3 | ISC |
 | zod | 4.4.3 | MIT |
 | zod-to-json-schema | 3.25.2 | ISC |
-> Notice-required licenses in use: Apache-2.0 AND LGPL-3.0-or-later. Their license texts ship inside node_modules; see the package LICENSE files for the full terms.
+> Notice-required licenses in use: LGPL-3.0-or-later. Their license texts ship inside node_modules; see the package LICENSE files for the full terms.
